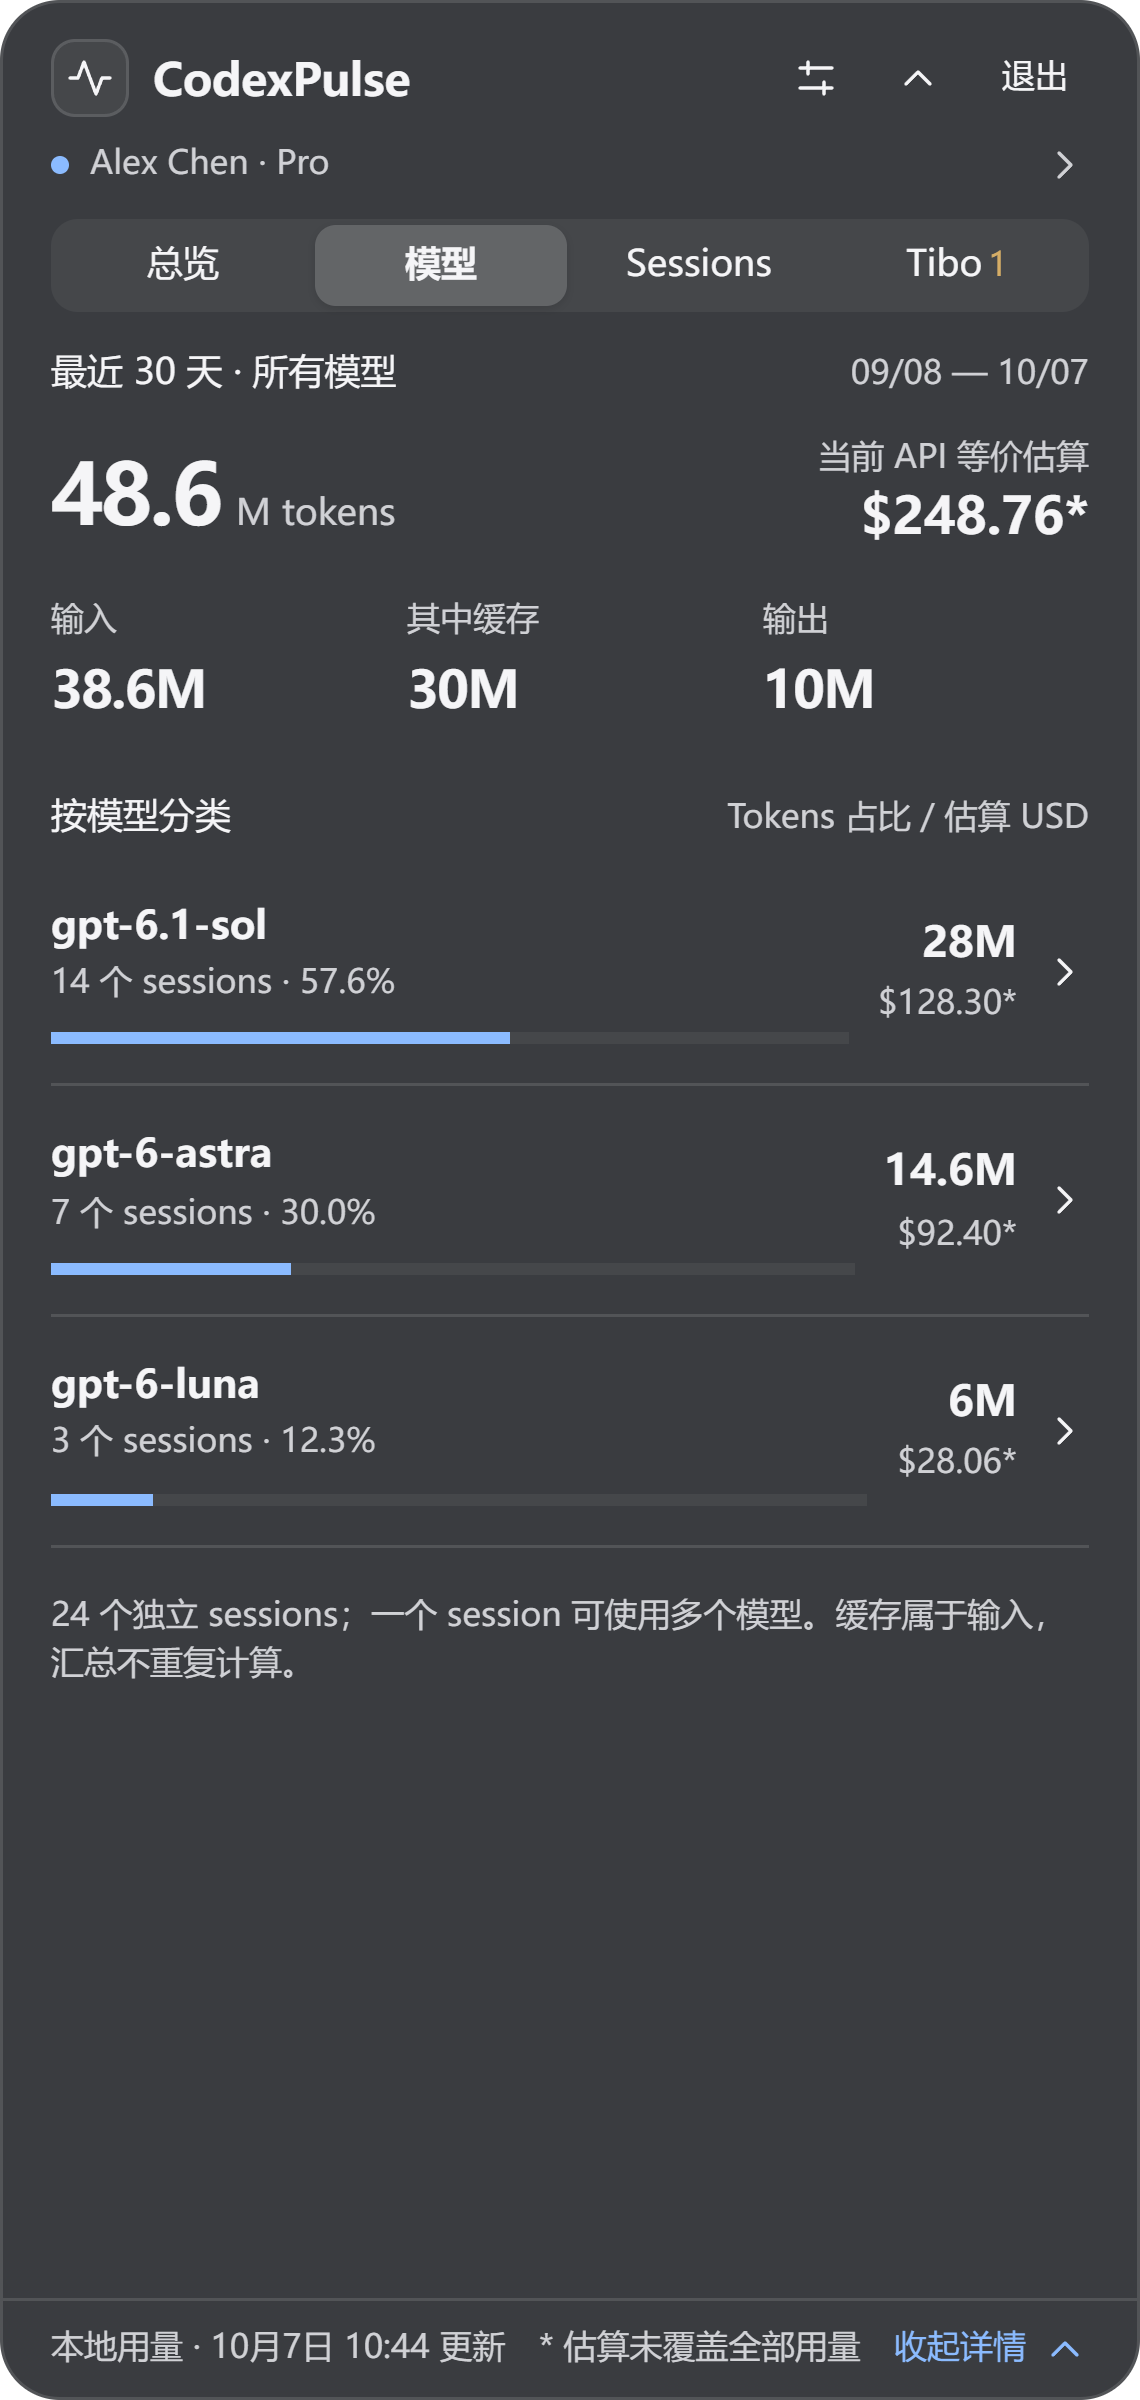
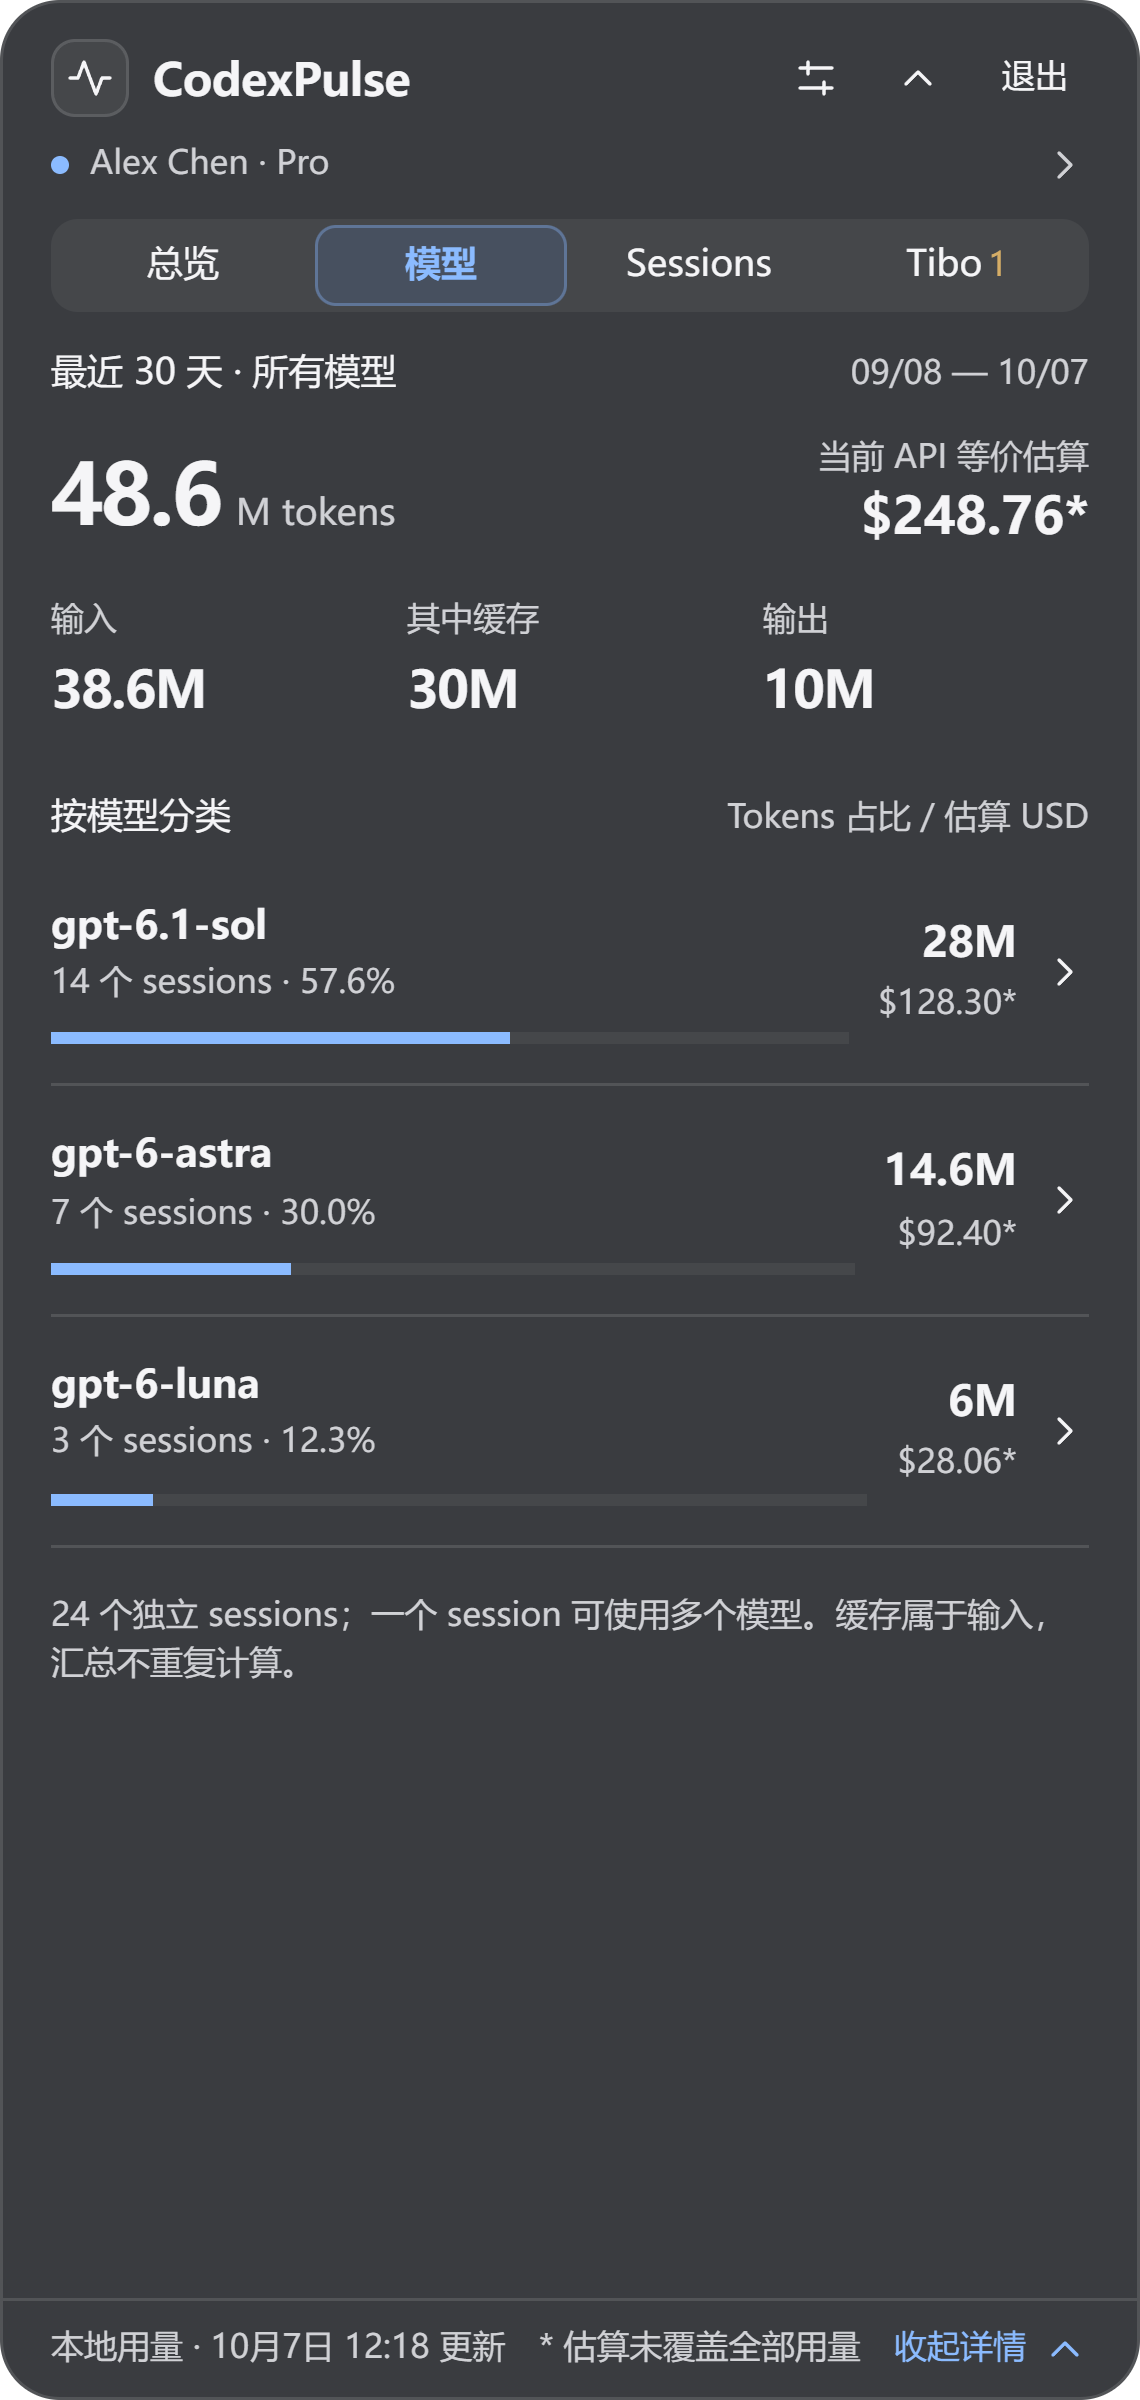
fix: retain selected-tab styling on older WebViews

Changed region(s): [[0.2763, 0.0938, 0.5219, 0.125], [0.3377, 0.9688, 0.3684, 1.0]]

diff --git a/apps/desktop/src/styles/app.css b/apps/desktop/src/styles/app.css
@@ -407,8 +407,10 @@ main[data-theme='light'] .accent-swatch {
   font-size: 12px;
 }
 .cp-tabs button[aria-pressed='true'] {
+  background: var(--accent-bg);
   background: color-mix(in srgb, var(--cp-accent) 16%, var(--cp-solid));
   color: var(--cp-accent);
+  box-shadow: inset 0 0 0 1px var(--cp-accent);
   box-shadow: inset 0 0 0 1px color-mix(in srgb, var(--cp-accent) 35%, transparent);
   font-weight: 650;
 }

diff --git a/docs/development/status.md b/docs/development/status.md
@@ -9,9 +9,9 @@
 ## 0.1.8 Resets 最新公告与历史解耦
 
 最新状态按用户设置间隔校验，历史缓存 TTL 不延长公告请求；历史失败仍合并新公告，独立标记历史错误。旧版部分成功缓存在启动时重建列表。客户端失败退避最多 15 分钟，不短于用户间隔和 Retry-After；原手动模式 / 30 秒合并 / 账户可见性策略保留。设置保留 0.1.7 的版本号和主动检查更新。实施及验收见 [0.1.8 记录](resets-refresh-0.1.8.md)。
-## 0.1.9 拖动区域与本机版本（构建中）
+## 0.1.10 拖动区域与本机版本（构建中）
 
-用户截图时本机仍运行 target/release 下 0.1.6 旧程序，未使用已发布的 0.1.7，所以仍显示旧重置布局。本轮将小浮窗拖动扩展至整条窗口，4 DIP 阈值区分点击 / 拖动并避免拖后误展开；展开窗口整个顶部可拖动，操作按钮排除。零新增依赖 / 轮询。中英文交互回归通过，本机替换及发布证据见 [0.1.9 记录](window-drag-0.1.9.md)。
+用户截图时本机仍运行 target/release 下 0.1.6 旧程序，未使用已发布的 0.1.7，所以仍显示旧重置布局。本轮将小浮窗拖动扩展至整条窗口，4 DIP 阈值区分点击 / 拖动并避免拖后误展开；展开窗口整个顶部可拖动，操作按钮排除。零新增依赖 / 轮询。中英文交互回归通过，本机替换及发布证据见 [0.1.10 记录](window-drag-0.1.10.md)。
 
 ## 0.1.7 更新检查与交互收尾（已正式发布）
 

diff --git a/docs/development/window-drag-0.1.10.md b/docs/development/window-drag-0.1.10.md
@@ -1,4 +1,4 @@
-# 0.1.9 拖动区域与本机版本修正
+# 0.1.10 拖动区域与本机版本修正
 
 2026-10-07，用户截图反馈重置仍换行、两种窗口都不容易拖动、浅色选中标签难以辨认。
 
@@ -18,3 +18,5 @@
 - 中英文 Tauri IPC 模拟：标题栏空白 / 标题、操作按钮排除、小于阈值抖动、模型 / 速度区域拖动、越出浮窗边缘、拖动后不误展开及下一次点击恢复通过；既有更新 / Tibo / 菜单回归继续通过。
 - `scripts/verify-appearance.cjs` 验证 60 种平台 / 语言 / 主题 / 强调色组合，选中项底色、字色、描边与非选中项可区分，重置标签与值同行；浅色截图人工检查通过。
 - 原生构建、本机替换及双平台发布待完成；模拟不能替代 OS 拖动手感验收。
+
+补充不支持 CSS color-mix 的 WebView 回退：使用 rgba 主题色底纹和实色内描边；保留现代 WebView 的混色效果。0.1.9 标签作为未发布候选保留，其 CI 已取消，最终交付为 0.1.10。

diff --git a/docs/design/codexpulse-v1.md b/docs/design/codexpulse-v1.md
@@ -612,7 +612,7 @@ Rust workspace 包含核心与桌面宿主；pnpm 负责前端依赖。具体工
 7. 连续 8 小时常驻、100 次展开/收起/切主题后，无 renderer/句柄/任务泄漏；不因关闭 UI 停掉自动消息采集。
 8. 同一份发布配置记录测量硬件、版本、样本与结果；预算不通过作为发布阻断项，不能用浏览器 UI 测试替代。
 
-### 窗口拖动（0.1.9）
+### 窗口拖动（0.1.10）
 
 分段导航的选中项使用主题色底纹、内描边及加粗主题色文字，深浅主题和五种强调色均需清晰可辨；macOS 与 Windows 共用状态样式，高对比模式使用系统 Highlight / HighlightText。
 
